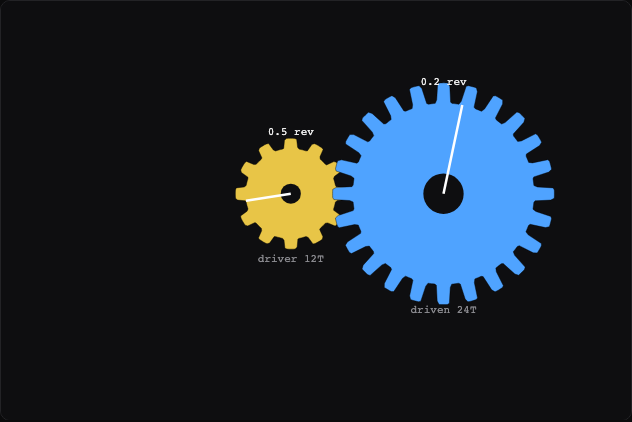
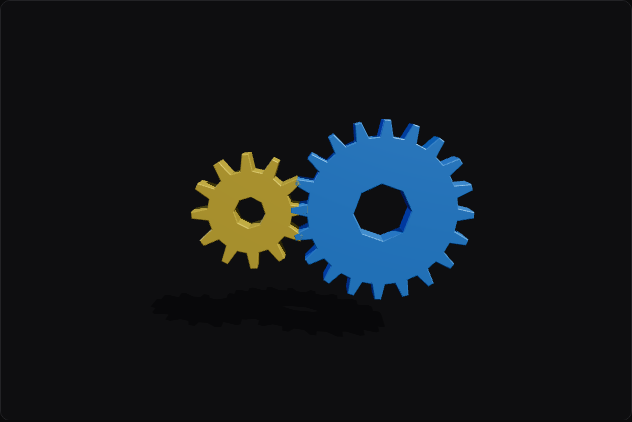
Upgrade Gears to lit 3D (three.js, _three recipe)
Replace the flat 2D gears with real extruded/beveled 3D gears on the
premium recipe: antialias, PCF soft shadows + shadow ground, hemi/key/
rim lights, MeshStandardMaterial, ACES tone mapping, orbit. Procedural
gear geometry (ExtrudeGeometry of a toothed Shape with hub hole),
meshing at the correct inverse-teeth ratio with a half-tooth offset.

Changed region(s): [[0.3006, 0.1848, 0.9019, 0.7393]]

diff --git a/sims/gears/index.html b/sims/gears/index.html
@@ -5,69 +5,90 @@
     <meta name="viewport" content="width=device-width, initial-scale=1" />
     <title>Gears — Kevin Arifin</title>
     <link rel="stylesheet" href="../lib/sim.css" />
+    <script type="importmap">
+      { "imports": {
+        "three": "https://unpkg.com/three@0.160.0/build/three.module.js",
+        "three/addons/": "https://unpkg.com/three@0.160.0/examples/jsm/"
+      } }
+    </script>
   </head>
   <body>
     <main class="sim">
       <a class="back" href="/sims/">← Sims</a>
       <h1>Gears</h1>
-      <p class="sub">In the spirit of Ciechanowski's gears. Two meshing gears must move the same teeth-per-second, so a small gear spins faster — trading speed for torque. Change the teeth and watch the ratio. <strong>Canvas 2D</strong> · mechanisms.</p>
+      <p class="sub">Two meshing gears must move the same teeth per second, so the small one spins faster — trading speed for torque. Re-tooth either gear and watch the ratio. Drag to orbit. <strong>three.js</strong> · mechanisms.</p>
 
-      <div class="stage" aria-label="Two meshing gears with marked teeth and revolution counters"><canvas id="c"></canvas></div>
+      <div class="stage" aria-label="Two meshing 3D gears, lit and shadowed"><canvas id="c"></canvas></div>
       <div class="controls">
-        <label class="row"><span>Driver teeth <strong id="naValue"></strong></span>
-          <input id="na" type="range" min="8" max="36" step="1" value="12" /></label>
-        <label class="row"><span>Driven teeth <strong id="nbValue"></strong></span>
-          <input id="nb" type="range" min="8" max="36" step="1" value="24" /></label>
-        <label class="row"><span>Speed <strong id="spdValue"></strong></span>
-          <input id="spd" type="range" min="0" max="2" step="0.01" value="1" /></label>
+        <label class="row"><span>Driver teeth <strong id="naValue"></strong></span><input id="na" type="range" min="8" max="30" step="1" value="12" /></label>
+        <label class="row"><span>Driven teeth <strong id="nbValue"></strong></span><input id="nb" type="range" min="8" max="30" step="1" value="20" /></label>
+        <label class="row"><span>Speed <strong id="spdValue"></strong></span><input id="spd" type="range" min="0" max="2" step="0.01" value="1" /></label>
         <button id="toggle">Pause</button>
-        <button id="reset">Reset</button>
       </div>
       <div class="readout" id="ro"></div>
 
-      <script src="../lib/simkit.js"></script>
-      <script>
-        const canvas = document.getElementById("c"), ctx = canvas.getContext("2d"), ro = document.getElementById("ro");
-        const params = { na: 12, nb: 24, spd: 1 };
-        let view = { w: 0, h: 0 }, theta = 0, revA = 0, revB = 0;
-        const MODULE = 4.2; // px per tooth of pitch radius scale
+      <script type="module">
+        import * as THREE from "three";
+        import { OrbitControls } from "three/addons/controls/OrbitControls.js";
 
-        function resize() { view = Sim.fitCanvas(canvas, ctx); }
-        window.addEventListener("resize", () => { resize(); sim && sim.renderOnce(); });
+        const canvas = document.getElementById("c");
+        const renderer = new THREE.WebGLRenderer({ canvas, antialias: true });
+        renderer.setPixelRatio(Math.min(window.devicePixelRatio, 2));
+        renderer.shadowMap.enabled = true; renderer.shadowMap.type = THREE.PCFSoftShadowMap;
+        renderer.toneMapping = THREE.ACESFilmicToneMapping; renderer.toneMappingExposure = 1.15;
 
-        function update(dt) { const d = params.spd * dt * 1.4; theta += d; revA += d / (2 * Math.PI); revB += d * (params.na / params.nb) / (2 * Math.PI); }
-        function drawGear(cx, cy, R, teeth, angle, body) {
-          const h = R * 0.10;
-          ctx.beginPath();
-          const seg = teeth * 14;
-          for (let i = 0; i <= seg; i++) { const a = angle + i / seg * 2 * Math.PI; const rr = R + h * Math.tanh(Math.cos(a * teeth) * 5); const x = cx + rr * Math.cos(a), y = cy + rr * Math.sin(a); i ? ctx.lineTo(x, y) : ctx.moveTo(x, y); }
-          ctx.closePath(); ctx.fillStyle = body; ctx.fill(); ctx.strokeStyle = "rgba(0,0,0,0.4)"; ctx.lineWidth = 1; ctx.stroke();
-          ctx.fillStyle = "#0e0e10"; ctx.beginPath(); ctx.arc(cx, cy, R * 0.2, 0, 6.28); ctx.fill();
-          // one marked tooth (spoke) to read rotation
-          ctx.strokeStyle = "#fff"; ctx.lineWidth = 2.5; ctx.beginPath(); ctx.moveTo(cx, cy); ctx.lineTo(cx + (R - h) * Math.cos(angle), cy + (R - h) * Math.sin(angle)); ctx.stroke();
+        const scene = new THREE.Scene(); scene.background = new THREE.Color(0x0e0e10);
+        const camera = new THREE.PerspectiveCamera(45, 1, 0.1, 100); camera.position.set(0, 2.2, 11);
+        scene.add(new THREE.HemisphereLight(0xcfe0ff, 0x14141a, 0.55));
+        const key = new THREE.DirectionalLight(0xffffff, 2.4); key.position.set(5, 9, 7); key.castShadow = true;
+        key.shadow.mapSize.set(2048, 2048); key.shadow.bias = -0.0004; key.shadow.camera.near = 1; key.shadow.camera.far = 40;
+        key.shadow.camera.left = key.shadow.camera.bottom = -10; key.shadow.camera.right = key.shadow.camera.top = 10; scene.add(key);
+        const rim = new THREE.DirectionalLight(0x88aaff, 0.5); rim.position.set(-6, 2, -5); scene.add(rim);
+        const ground = new THREE.Mesh(new THREE.PlaneGeometry(60, 60), new THREE.ShadowMaterial({ opacity: 0.4 }));
+        ground.rotation.x = -Math.PI / 2; ground.position.y = -3.4; ground.receiveShadow = true; scene.add(ground);
+
+        const MOD = 0.18, TH = 0.5;
+        function gearMesh(teeth, color) {
+          const rP = teeth * MOD * 0.5, rO = rP + MOD * 0.95, rR = rP - MOD, hub = Math.max(0.18, rR * 0.4);
+          const shape = new THREE.Shape(); const N = teeth, step = Math.PI * 2 / N;
+          const pts = [];
+          for (let i = 0; i < N; i++) { const a = i * step;
+            pts.push([rR, a], [rO, a + step * 0.16], [rO, a + step * 0.34], [rR, a + step * 0.5]); }
+          shape.moveTo(pts[0][0] * Math.cos(pts[0][1]), pts[0][0] * Math.sin(pts[0][1]));
+          for (let i = 1; i < pts.length; i++) shape.lineTo(pts[i][0] * Math.cos(pts[i][1]), pts[i][0] * Math.sin(pts[i][1]));
+          shape.closePath();
+          shape.holes.push(new THREE.Path().absarc(0, 0, hub, 0, Math.PI * 2, true));
+          const geo = new THREE.ExtrudeGeometry(shape, { depth: TH, bevelEnabled: true, bevelSize: MOD * 0.12, bevelThickness: MOD * 0.12, bevelSegments: 2, curveSegments: 4 });
+          geo.translate(0, 0, -TH / 2);
+          const m = new THREE.Mesh(geo, new THREE.MeshStandardMaterial({ color: color, roughness: 0.45, metalness: 0.35 }));
+          m.castShadow = true; m.receiveShadow = true; m.userData.rP = rP; return m;
         }
-        function render() {
-          ctx.fillStyle = "#0e0e10"; ctx.fillRect(0, 0, view.w, view.h);
-          const RA = params.na * MODULE, RB = params.nb * MODULE;
-          const cy = view.h * 0.46, totalW = RA + RB, startX = (view.w - totalW) / 2;
-          const ax = startX + RA, bx = ax + RA + RB + 1.5;
-          drawGear(ax, cy, RA, params.na, theta, "#e8c547");
-          drawGear(bx, cy, RB, params.nb, -theta * params.na / params.nb + Math.PI / params.nb, "#4fa3ff");
-          ctx.fillStyle = "#8a8a8f"; ctx.font = "11px ui-monospace, monospace"; ctx.textAlign = "center";
-          ctx.fillText("driver " + params.na + "T", ax, cy + RA + 18); ctx.fillText("driven " + params.nb + "T", bx, cy + RB + 18);
-          ctx.fillStyle = "#ededed"; ctx.fillText(revA.toFixed(1) + " rev", ax, cy - RA - 8); ctx.fillText(revB.toFixed(1) + " rev", bx, cy - RB - 8);
-          ctx.textAlign = "left";
-          const ratio = params.nb / params.na;
-          ro.innerHTML = "Ratio <strong>" + params.nb + ":" + params.na + "</strong> = <strong>" + ratio.toFixed(2) + "×</strong>. The driven gear turns <strong>" + ratio.toFixed(2) + "× slower</strong> with <strong>" + ratio.toFixed(2) + "× the torque</strong>.";
-        }
 
-        resize();
-        const sim = Sim.loop({ update, render, stage: canvas.parentElement });
-        Sim.bind("na", params, "na", (v) => v + "T");
-        Sim.bind("nb", params, "nb", (v) => v + "T");
-        Sim.bind("spd", params, "spd", (v) => (+v).toFixed(2));
-        document.getElementById("toggle").addEventListener("click", function () { sim.toggle(); this.textContent = sim.running ? "Pause" : "Play"; });
-        document.getElementById("reset").addEventListener("click", () => { theta = 0; revA = 0; revB = 0; sim.renderOnce(); });
+        let gearA, gearB, theta = 0;
+        const params = { na: 12, nb: 20, spd: 1, run: true };
+        function rebuild() {
+          if (gearA) { scene.remove(gearA); gearA.geometry.dispose(); scene.remove(gearB); gearB.geometry.dispose(); }
+          gearA = gearMesh(params.na, 0xe8c547); gearB = gearMesh(params.nb, 0x4fa3ff);
+          const sep = gearA.userData.rP + gearB.userData.rP;
+          gearA.position.set(-sep / 2, 0, 0); gearB.position.set(sep / 2, 0, 0);
+          scene.add(gearA); scene.add(gearB);
+        }
+        rebuild();
+
+        const controls = new OrbitControls(camera, canvas); controls.enableDamping = true; controls.target.set(0, 0, 0);
+        function resize() { const r = canvas.getBoundingClientRect(); renderer.setSize(r.width, r.height, false); camera.aspect = r.width / r.height; camera.updateProjectionMatrix(); }
+        window.addEventListener("resize", resize); resize();
+
+        const ro = document.getElementById("ro");
+        function readout() { const ratio = params.nb / params.na; ro.innerHTML = "Ratio <strong>" + params.nb + ":" + params.na + "</strong> = <strong>" + ratio.toFixed(2) + "×</strong> — driven turns " + ratio.toFixed(2) + "× slower, with " + ratio.toFixed(2) + "× the torque."; }
+        function bind(id, key, fmt) { const el = document.getElementById(id), out = document.getElementById(id + "Value"); const f = () => { params[key] = +el.value; out.textContent = fmt ? fmt(+el.value) : el.value; }; el.addEventListener("input", () => { f(); if (id === "na" || id === "nb") rebuild(); readout(); }); f(); }
+        bind("na", "na", v => v + "T"); bind("nb", "nb", v => v + "T"); bind("spd", "spd", v => v.toFixed(2)); readout();
+        document.getElementById("toggle").addEventListener("click", function () { params.run = !params.run; this.textContent = params.run ? "Pause" : "Play"; });
+
+        renderer.setAnimationLoop(() => {
+          if (params.run) { theta += params.spd * 0.012; gearA.rotation.z = theta; gearB.rotation.z = -theta * params.na / params.nb + Math.PI / params.nb; }
+          controls.update(); renderer.render(scene, camera);
+        });
       </script>
     </main>
   </body>